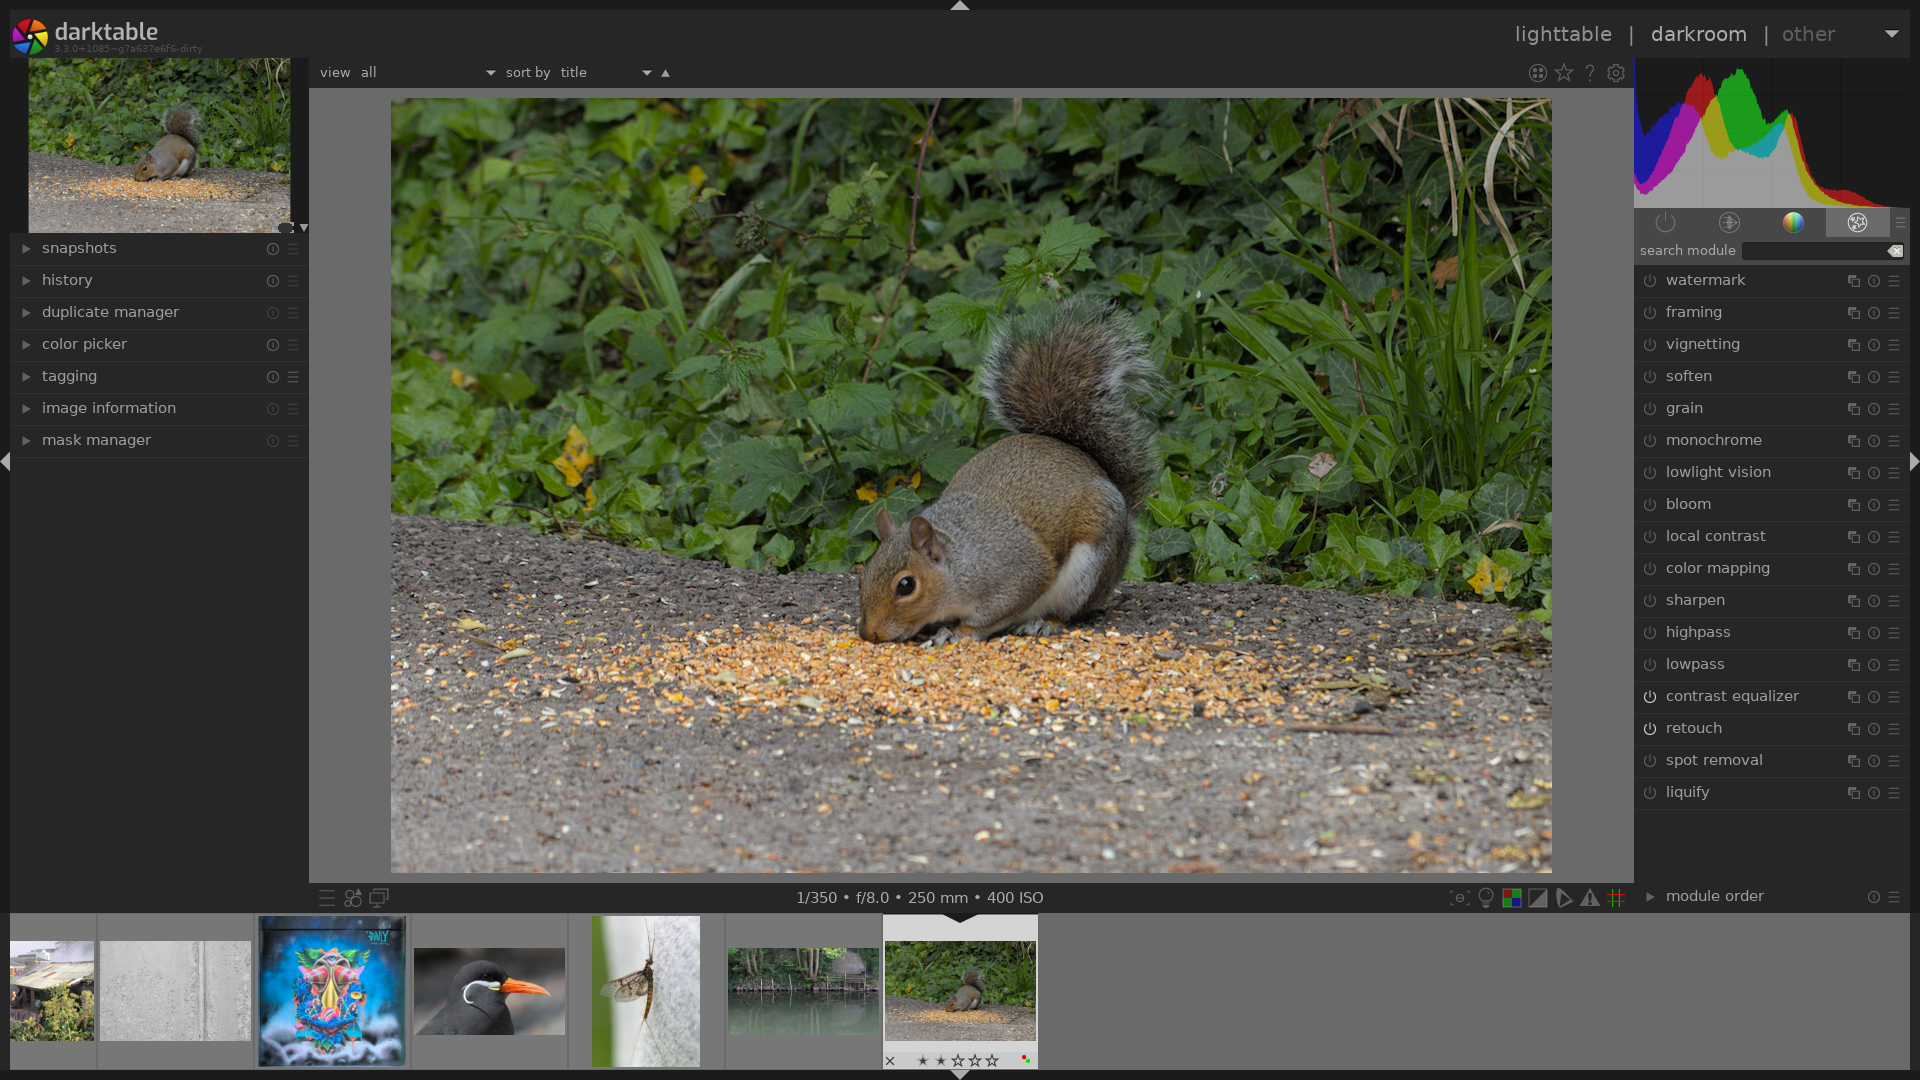
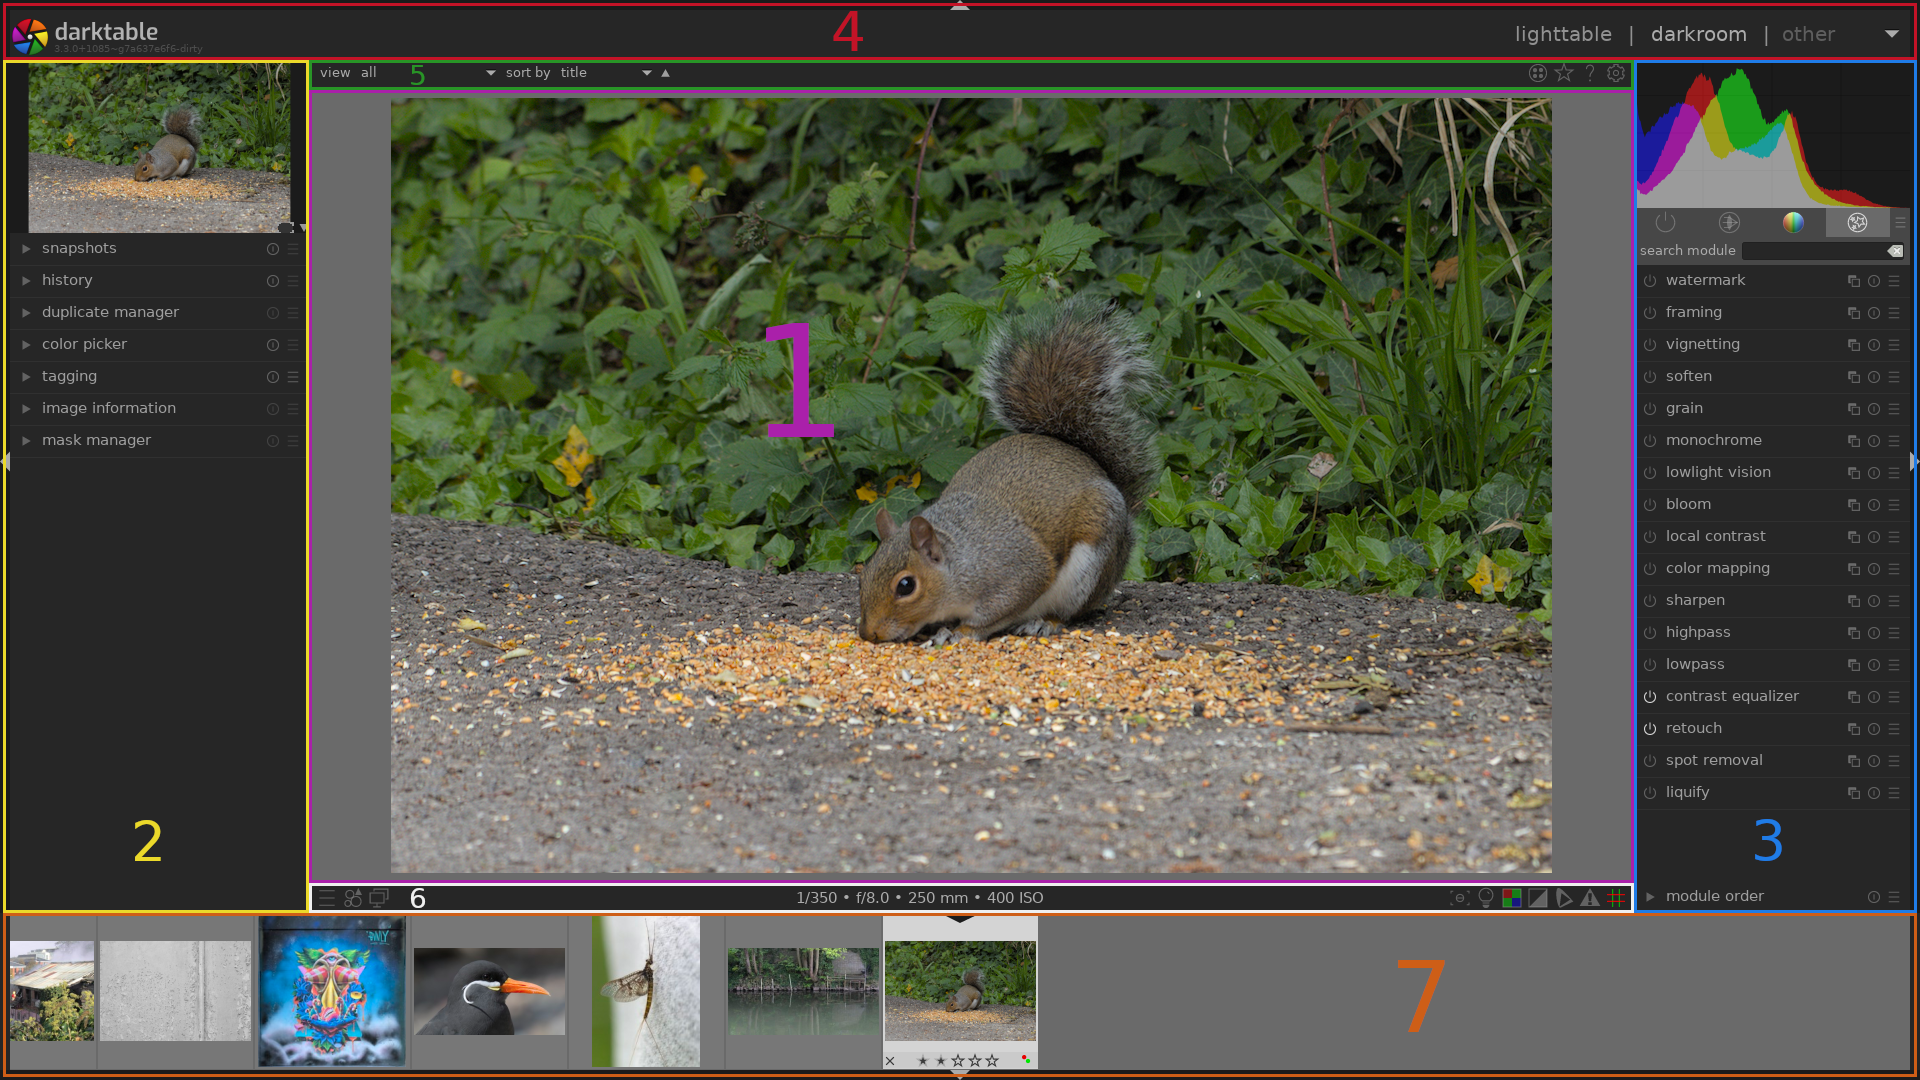
Screen layout with visually marked areas

diff --git a/content/overview/user-interface/screen-layout.md b/content/overview/user-interface/screen-layout.md
@@ -10,25 +10,25 @@ The layout of all views is similar and consists of a center area with panels at 
 
 ![screen-layout](./screen-layout/screen-layout.png#w100)
 
-center area
+1. center area
 : Contains information and functionality specific to the current view.
 
-left panel
+2. left panel
 : Contains modules primarily used to provide information.
 
-right panel
+3. right panel
 : Contains modules primarily used for image processing.
 
-top banner
+4. top banner
 : Contains information about the current darktable version and allows you to switch between views. Also used by some modules to show hints and messages.
 
-[top panel](./top-panel.md)
+[5. top panel](./top-panel.md)
 : Provides access to global settings and shortcuts
 
-bottom panel
+6. bottom panel
 : Provides access to view-specific settings and shortcuts.
 
-[filmstrip](../../module-reference/utility-modules/shared/filmstrip.md)/[timeline](../../module-reference/utility-modules/lighttable/timeline.md) panel
+[7. filmstrip](../../module-reference/utility-modules/shared/filmstrip.md)/[timeline](../../module-reference/utility-modules/lighttable/timeline.md) panel
 : An optional panel that can be enabled at the bottom of the screen to display a timeline (in the lighttable view) or a filmstrip (in other views) of images in the current collection.
 
 # panel size and visibility
